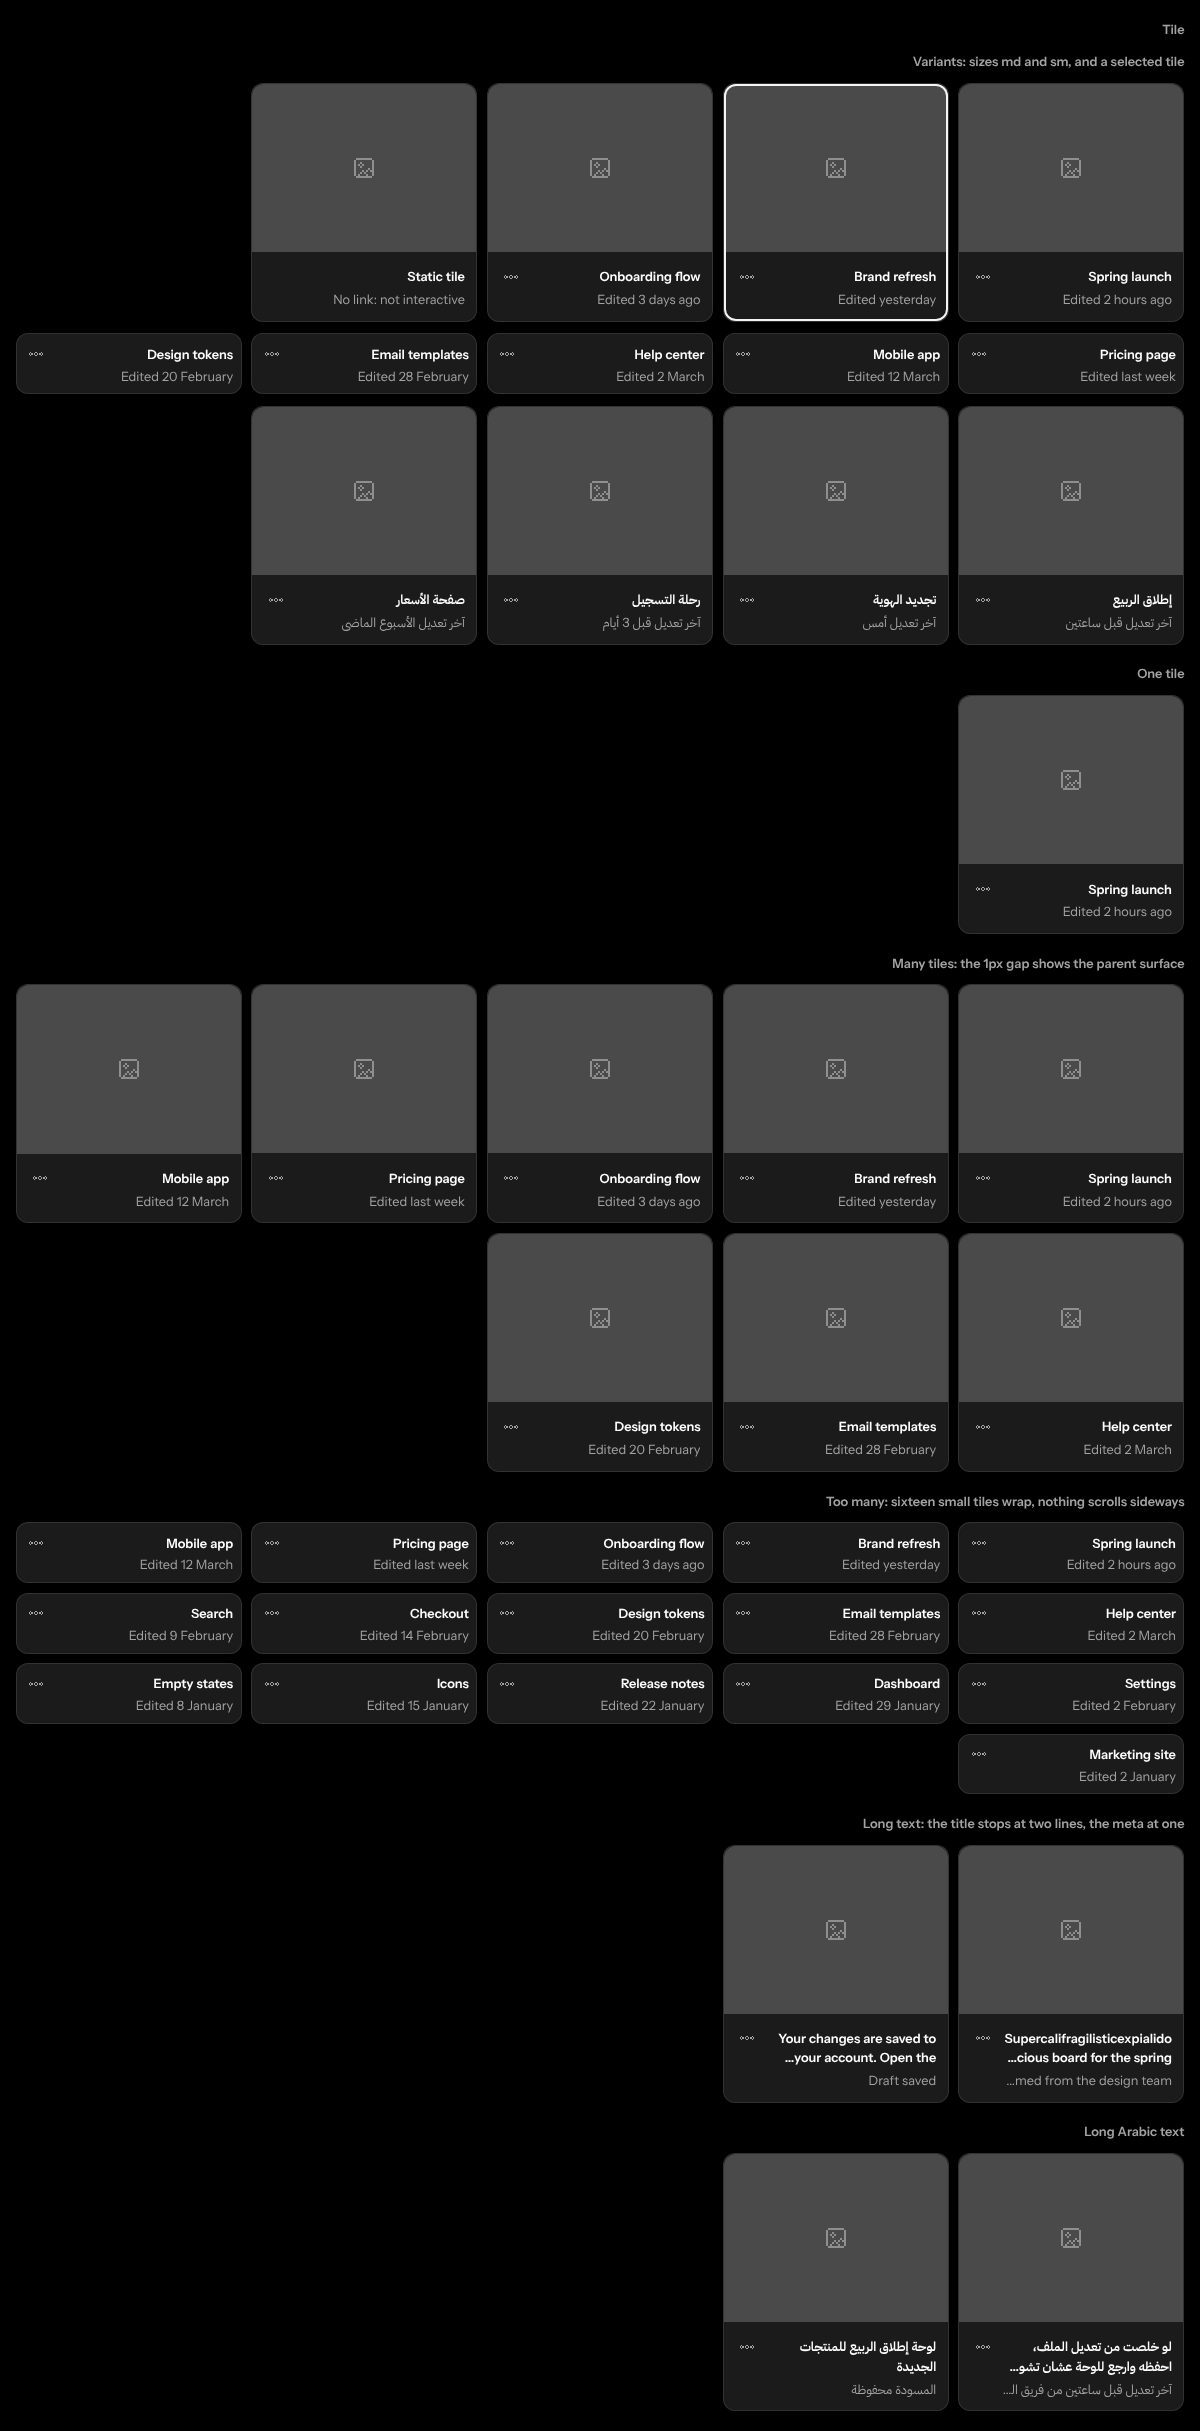
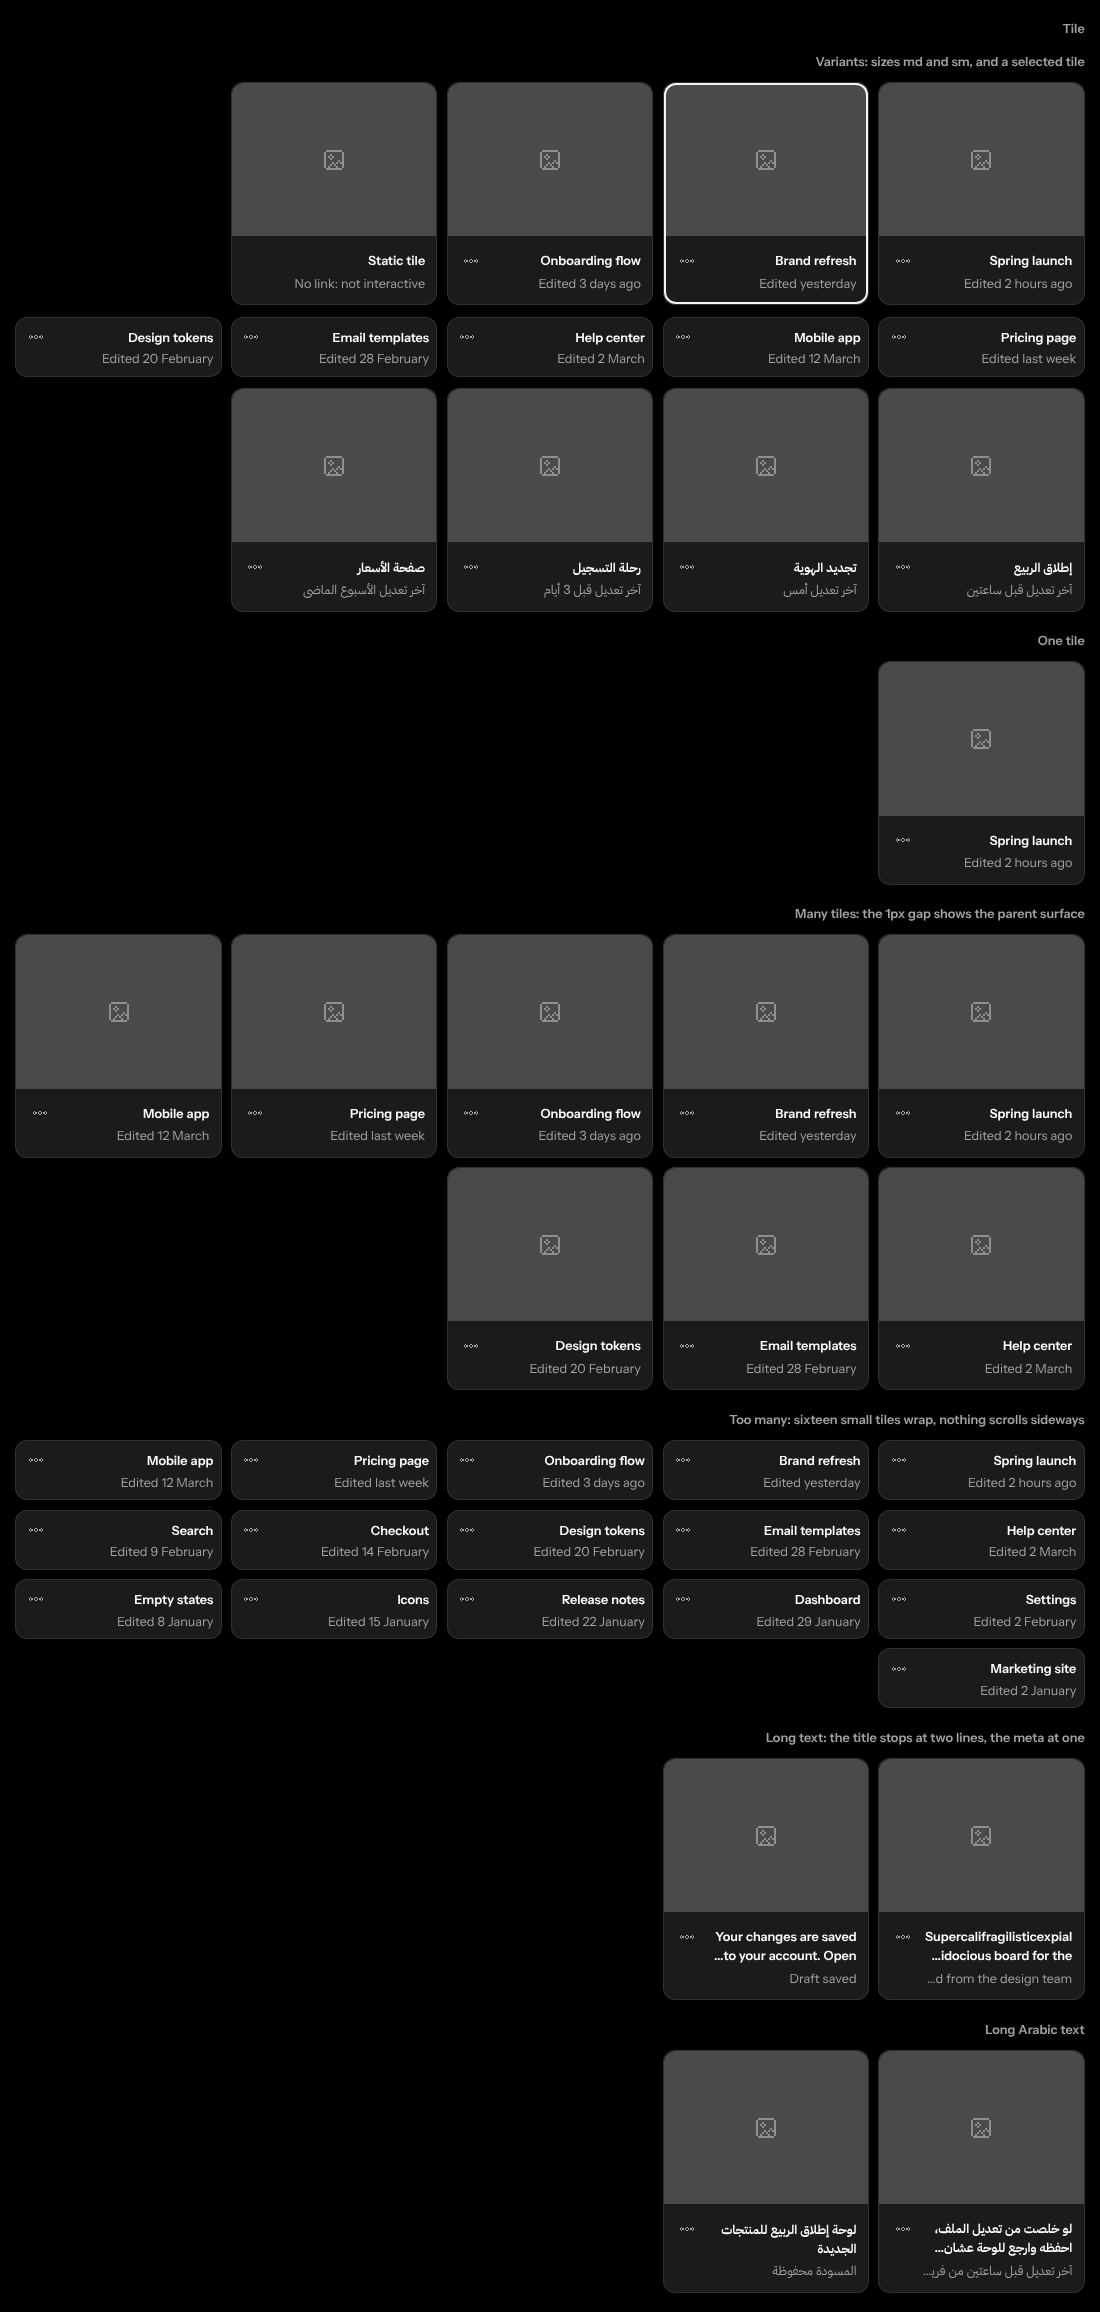
fix-9: Tile
Neutral recipe: free cards with a 1px border.default edge and a space.m
gap, as Neutral's dial 4 asks. TileGrid drops its radius under forced
colors so the clip keeps the corner tile borders.

Claude-Session: https://claude.ai/code/session_01ErLBsdNKL8hgeVbwciEbpg

diff --git a/packages/react/src/components/Tile/Tile.test.tsx b/packages/react/src/components/Tile/Tile.test.tsx
@@ -1,4 +1,6 @@
 import { render, screen } from '@testing-library/react';
+import { existsSync, readFileSync } from 'node:fs';
+import { join } from 'node:path';
 import { describe, expect, it } from 'vitest';
 import TileDemo from './Tile.demo';
 import { Tile, TileActions, TileGrid, TileLink, TileMedia, TileMeta, TileTitle } from './index';
@@ -100,5 +102,26 @@ describe('Tile', () => {
     const { container } = render(<TileDemo />);
     const cases = Array.from(container.querySelectorAll('[data-demo-case]')).map((c) => c.getAttribute('data-demo-case'));
     expect(cases).toEqual(['variants', 'one', 'many', 'too-many', 'long-text', 'long-arabic']);
+  });
+});
+
+describe('Tile style separation', () => {
+  // Vitest runs from the repo root.
+  const read = (path: string) => readFileSync(join(process.cwd(), path), 'utf8');
+
+  it('has a recipe in every style whose dial is not the 1px gap: Desk and Neutral set tiles apart with space and a border', () => {
+    for (const style of ['desk', 'neutral']) {
+      const path = `packages/styles/${style}/recipes/Tile.css`;
+      expect(existsSync(join(process.cwd(), path)), path).toBe(true);
+      const css = read(path);
+      expect(css, style).toMatch(new RegExp(`\\[data-style='${style}'\\] \\[data-ds='tile-grid'\\]`));
+      expect(css, style).toMatch(/--_tile-grid-gap:\s*var\(--ds-space-(?!px)/);
+      expect(css, style).toMatch(/--_tile-border-color:\s*var\(--ds-color-border-/);
+    }
+  });
+
+  it('drops the grid radius under forced colors, so the clip keeps the corner tile borders', () => {
+    const css = read('packages/css/src/components/TileGrid.css');
+    expect(css).toMatch(/@media \(forced-colors: active\)\s*\{\s*\[data-ds='tile-grid'\]\s*\{\s*--_tile-grid-radius: 0;/);
   });
 });

diff --git a/packages/styles/neutral/recipes/Tile.css b/packages/styles/neutral/recipes/Tile.css
@@ -1,0 +1,22 @@
+/*
+ * Neutral recipe for Tile: Neutral separates by a 1px border and white space
+ * (dial 4), not by a 1px gap on the parent. On Neutral's light surfaces that
+ * gap is close to invisible and the grid reads as one slab. The grid opens
+ * up to the card gap and stops clipping, and each tile becomes a rounded
+ * card on the surface with the default border. The private properties carry
+ * it; no declaration is restyled.
+ */
+@layer ds.recipes {
+  [data-style='neutral'] [data-ds='tile-grid'] {
+    --_tile-grid-gap: var(--ds-space-m);
+    --_tile-grid-radius: 0;
+  }
+
+  [data-style='neutral'] [data-ds='tile'],
+  [data-style='neutral'] [data-ds='tile-grid'] > [data-ds='tile'] {
+    --_tile-radius: var(--ds-radius-panel);
+    --_tile-bg: var(--ds-color-bg-surface);
+    --_tile-bg-hover: var(--ds-color-bg-surface-2);
+    --_tile-border-color: var(--ds-color-border-default);
+  }
+}

diff --git a/packages/css/src/components/TileGrid.css b/packages/css/src/components/TileGrid.css
@@ -27,4 +27,11 @@
   [data-ds='tile-grid'] > [data-ds='tile'] {
     --_tile-radius: 0;
   }
+
+  /* Forced colors: no radius, so the clip does not cut the CanvasText borders of the corner tiles. */
+  @media (forced-colors: active) {
+    [data-ds='tile-grid'] {
+      --_tile-grid-radius: 0;
+    }
+  }
 }

diff --git a/packages/styles/neutral/index.css b/packages/styles/neutral/index.css
@@ -2,4 +2,5 @@
 @import './fonts.css';
 @import './recipes/Icon.css';
 @import './recipes/Input.css';
+@import './recipes/Tile.css';
 @import './recipes/Window.css';
